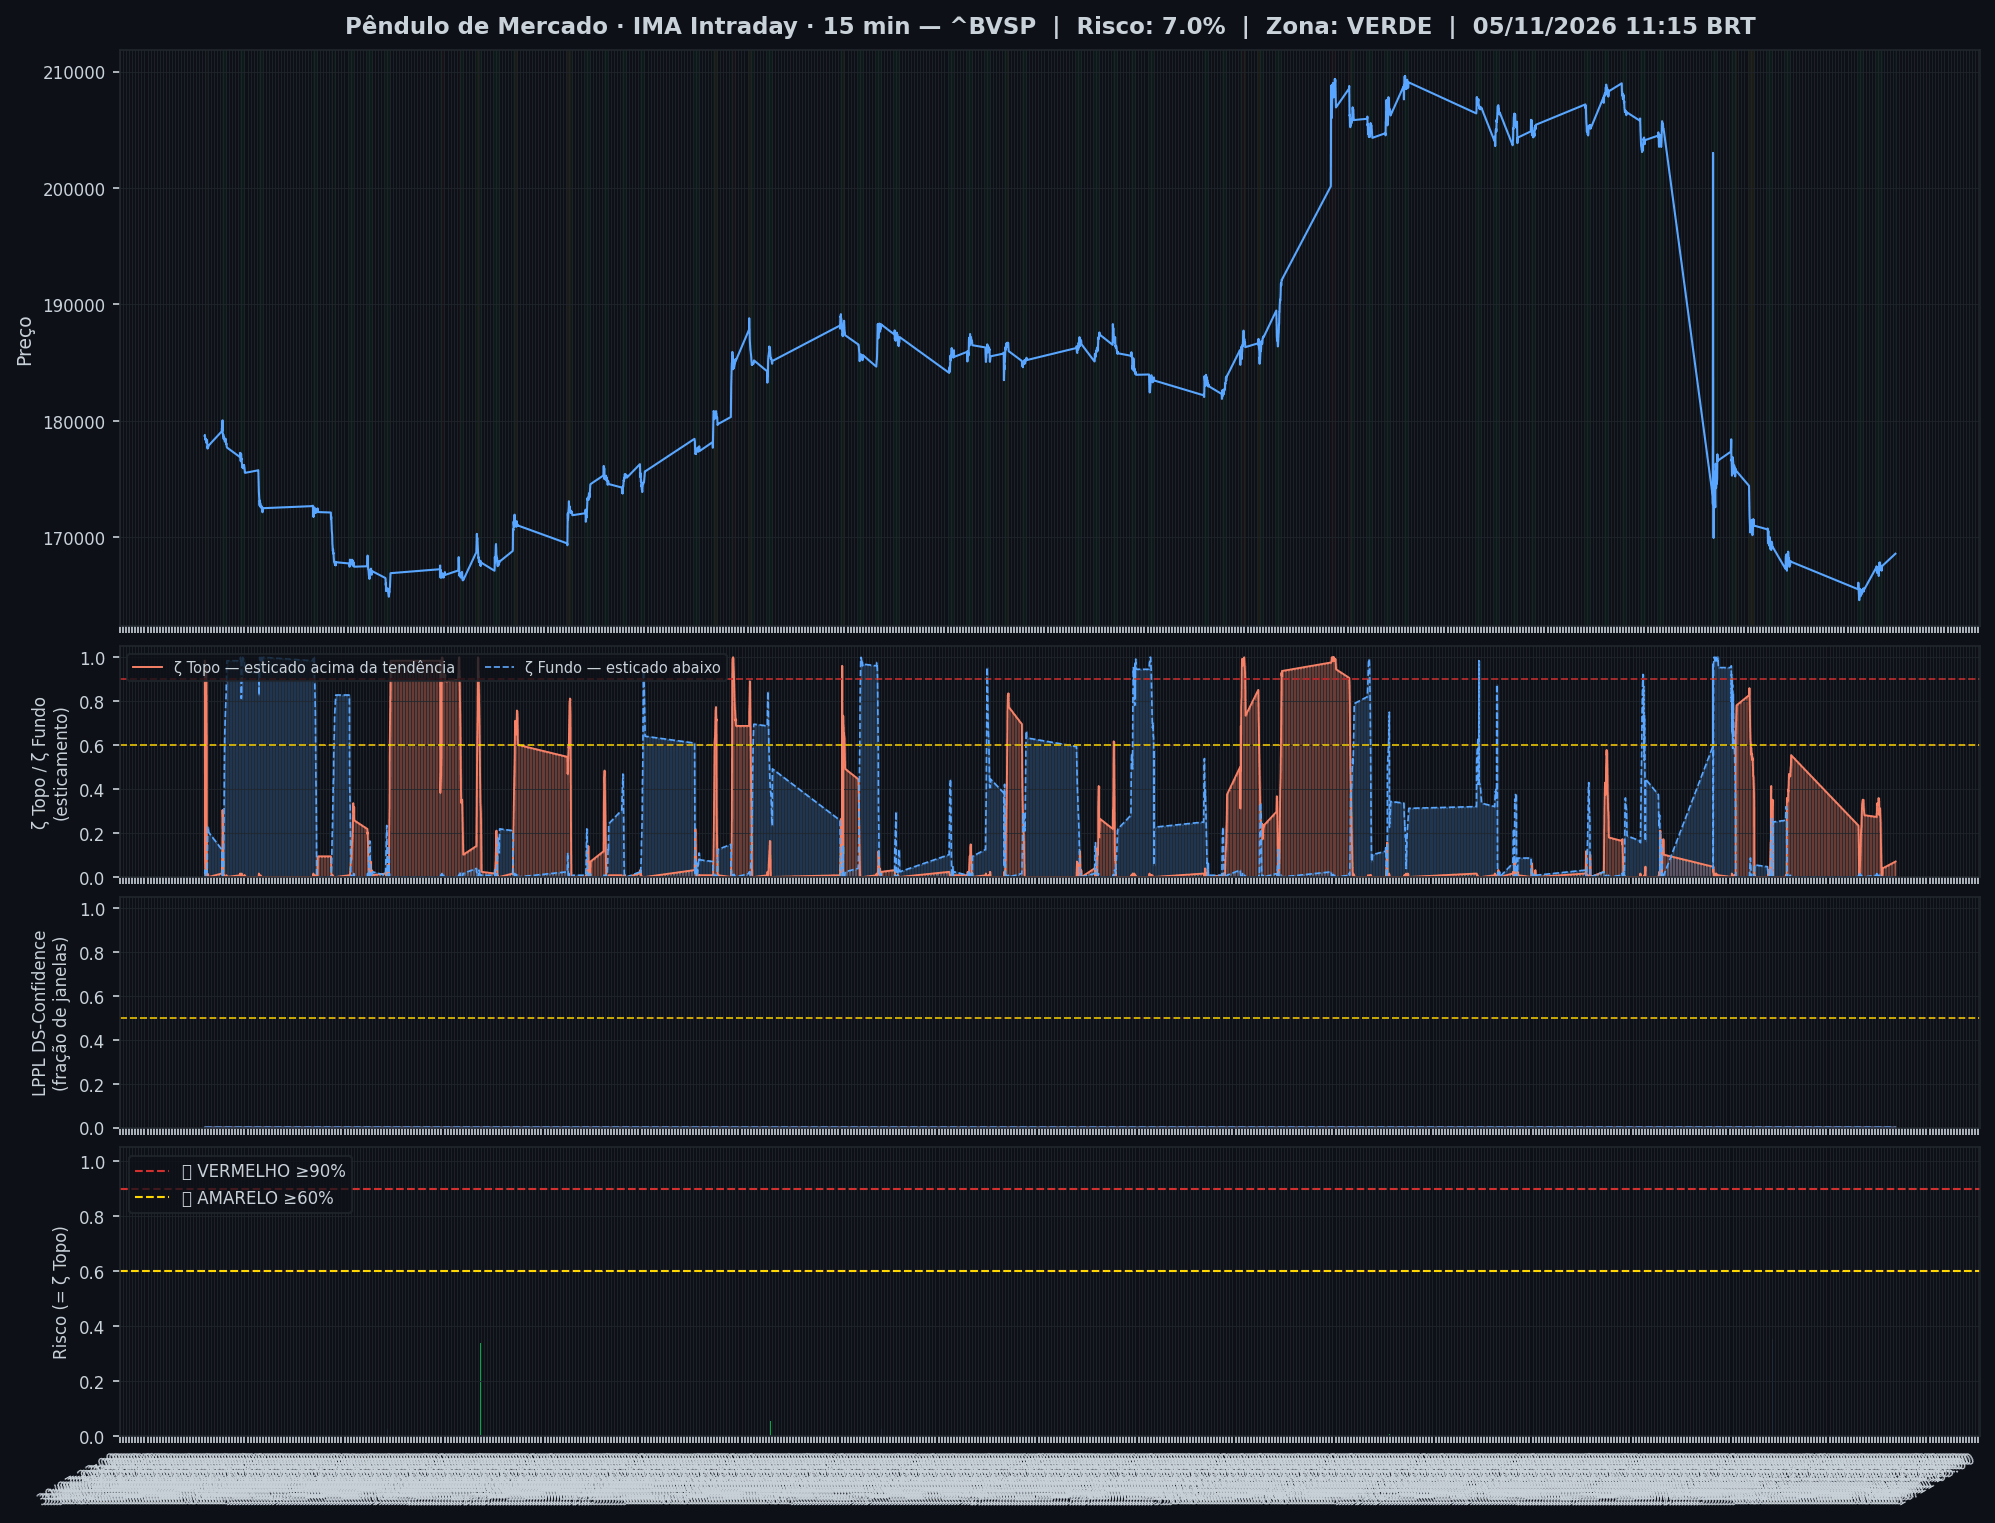
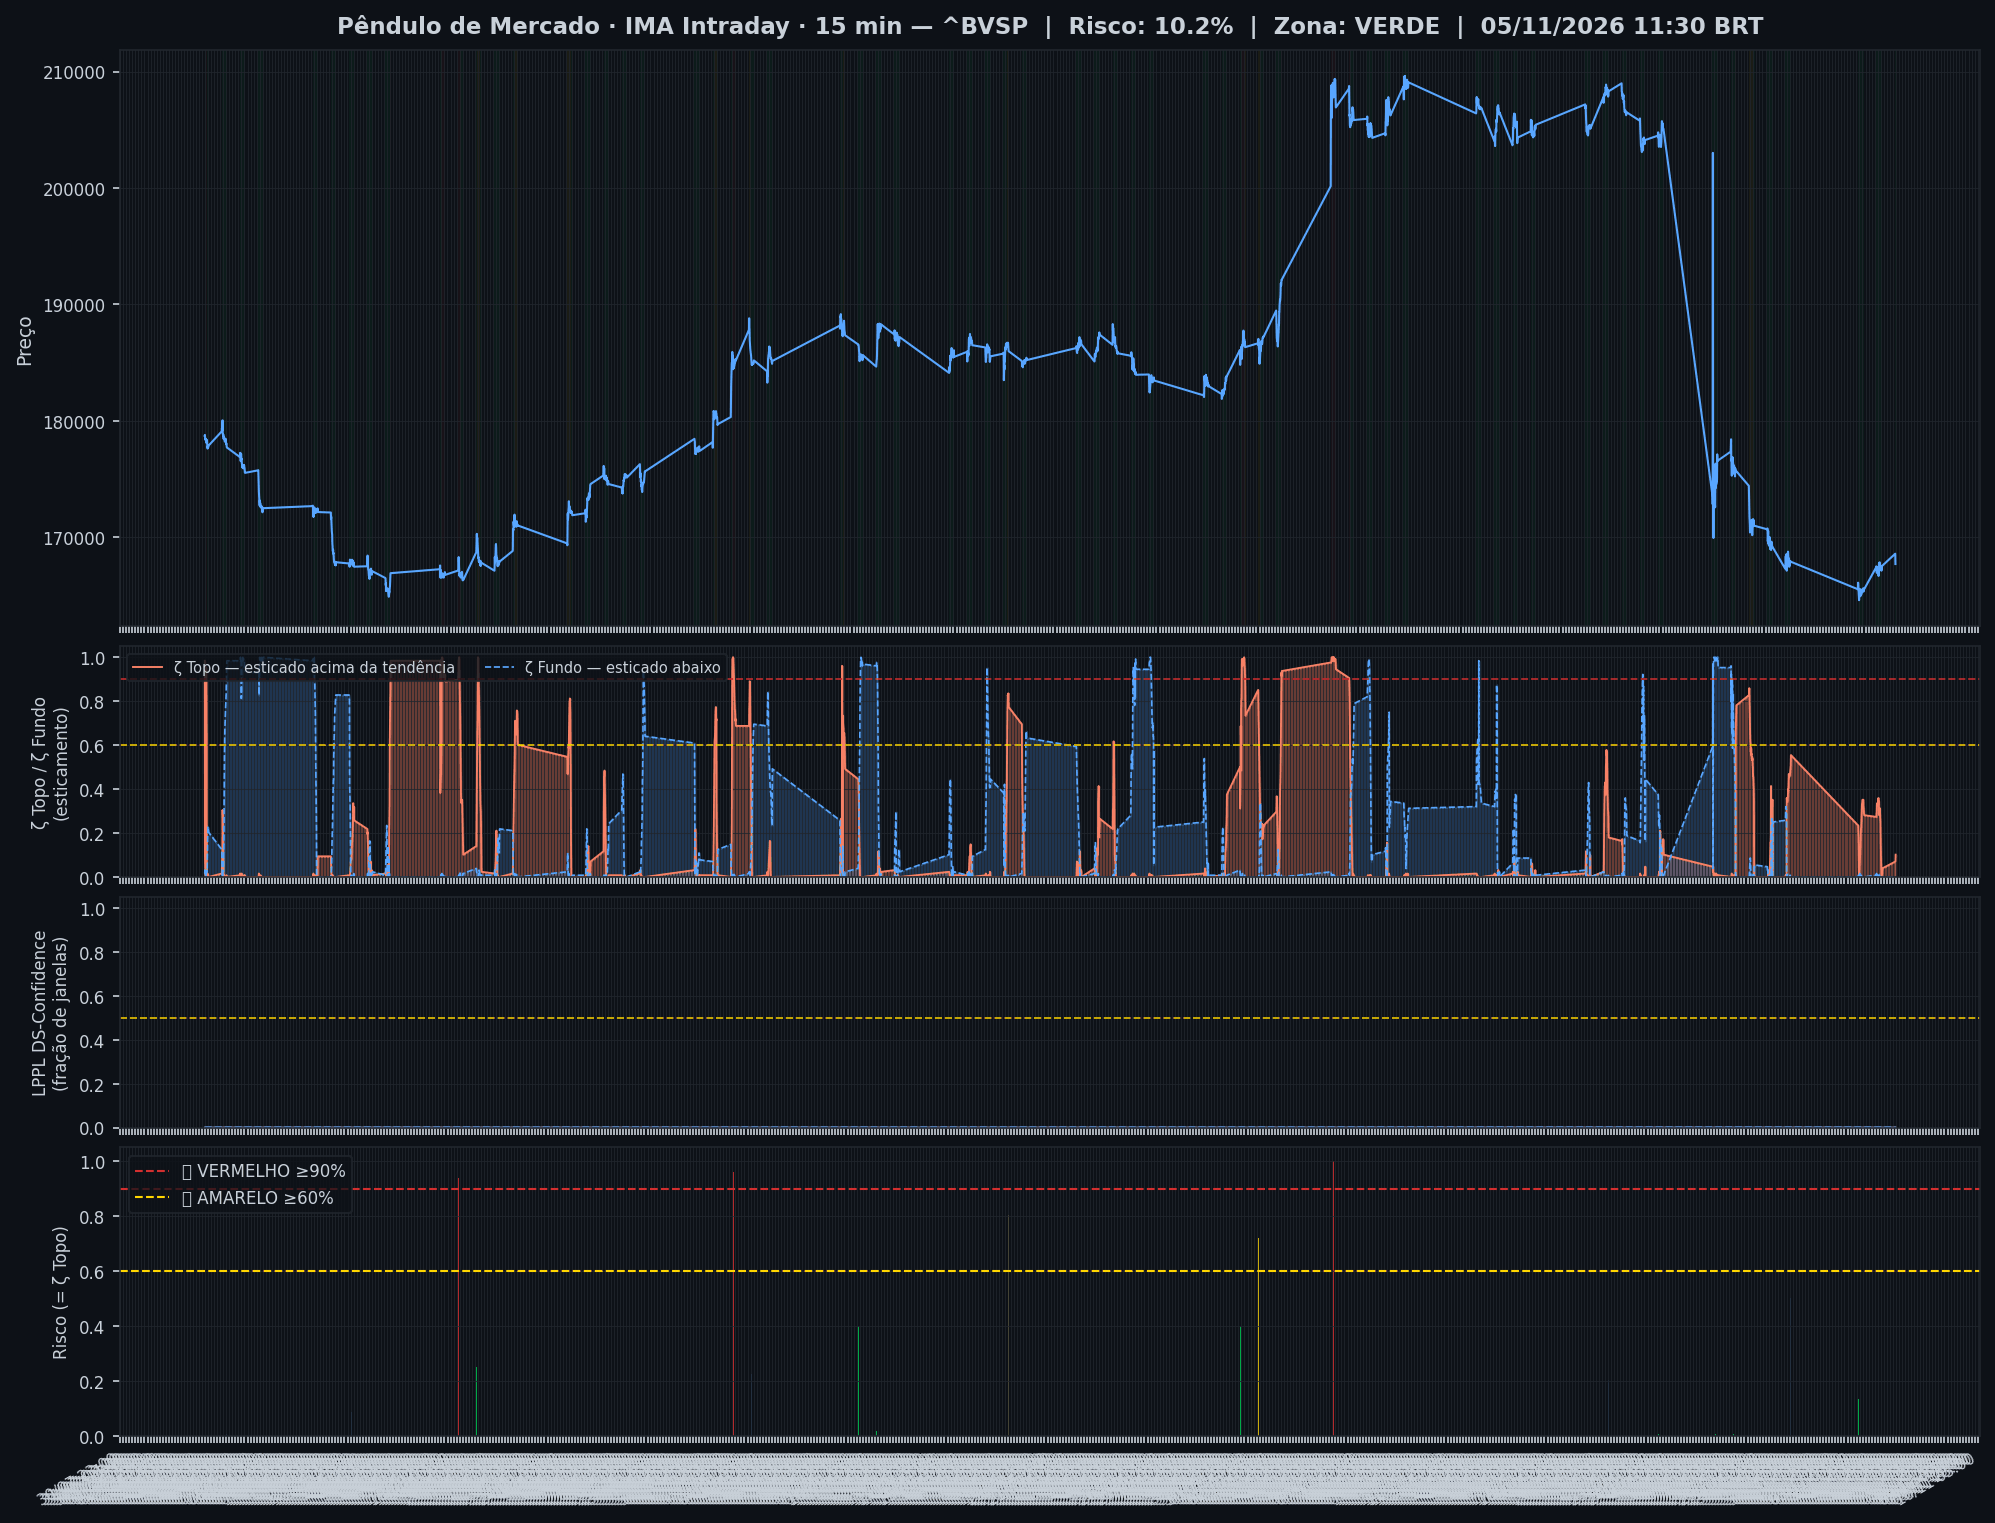
🤖 Auto: Sinal 05/11/2026 11:45

diff --git a/content/intraday/2026-11-05.md b/content/intraday/2026-11-05.md
@@ -1,10 +1,10 @@
 ---
-title: "🟢 Intraday 05/11/2026 11:15 BRT — VERDE"
+title: "🟢 Intraday 05/11/2026 11:30 BRT — VERDE"
 date: 2026-11-05
 tags: [intraday]
 ---
 
-> [!success] Onde o mercado está agora (05/11 11:15, candles de 15 min): **🟢 Calmo**
+> [!success] Onde o mercado está agora (05/11 11:30, candles de 15 min): **🟢 Calmo**
 > `Pânico ◀───────────●─────────▶ Euforia`
 >
 > O Ibovespa está dentro da sua faixa normal, sem excesso para cima nem para baixo.
@@ -20,8 +20,8 @@ tags: [intraday]
 > | 📍 **Sinais** | hoje: nenhum sinal | [abrir](sinais-topo-fundo/) |
 > | 🧪 **Placar ao vivo** | 1 operação(ões), 0 com lucro, soma -0,8% | [abrir](operacoes/) |
 
-> [!success] IMA Intraday · 15 min (05/11 11:15): 🟢 **VERDE** — Risco 7% · ▲ +3 p.p. vs leitura anterior
-> `█░░░░░░░░░░░░░░░░░░░`
+> [!success] IMA Intraday · 15 min (05/11 11:30): 🟢 **VERDE** — Risco 10% · ▲ +3 p.p. vs leitura anterior
+> `██░░░░░░░░░░░░░░░░░░`
 > Preço na faixa normal em torno da tendência.
 
 
@@ -32,13 +32,13 @@ tags: [intraday]
 >
 > *Leitura educacional baseada em 26 anos de dados, não recomendação. [Como usar](../metodologia/crise#3-como-usar-na-prática).*
 
-| Indicador — IMA Intraday · 15 min (05/11 11:15) | Valor |
+| Indicador — IMA Intraday · 15 min (05/11 11:30) | Valor |
 |---|---|
-| 🔴 ζ Topo — preço esticado acima da tendência | **7%** |
+| 🔴 ζ Topo — preço esticado acima da tendência | **10%** |
 | 🔵 ζ Fundo — preço esticado abaixo da tendência | 0% |
 | 🫧 LPPL bolha — alta super-exponencial (risco de crash) | 0% |
 | 🫧 LPPL antibolha — queda super-exponencial (risco de repique) | 0% |
-| 📊 Ibovespa | 168.606 pts |
+| 📊 Ibovespa | 167.720 pts |
 
 ![Gráfico do sinal](../graficos/sinal_intraday.png)
 
@@ -46,6 +46,7 @@ tags: [intraday]
 
 | Data | Zona | Evento | Risco | ζ Topo | ζ Fundo | LPPL |
 |---|---|---|---|---|---|---|
+| 2026-11-05 11:30 | 🟢 VERDE |  | **10%** | 10% | 0% | 0% |
 | 2026-11-05 11:15 | 🟢 VERDE |  | **7%** | 7% | 0% | 0% |
 | 2026-11-04 18:00 | 🟢 VERDE |  | **4%** | 4% | 0% | 0% |
 | 2026-11-04 17:45 | 🟢 VERDE |  | **2%** | 2% | 0% | 0% |
@@ -75,7 +76,6 @@ tags: [intraday]
 | 2026-11-04 11:45 | 🟢 VERDE |  | **33%** | 33% | 1% | 0% |
 | 2026-11-04 11:30 | 🟢 VERDE |  | **33%** | 33% | 1% | 0% |
 | 2026-11-04 11:15 | 🟢 VERDE |  | **33%** | 33% | 0% | 0% |
-| 2026-11-04 11:00 | 🟢 VERDE |  | **34%** | 34% | 0% | 0% |
 
 <small>Destaques: 🟡 ≥ 60% · 🔴 ≥ 90% (Risco e ζ Topo) · 🔵 ≥ 60% · 🔪 ≥ 90% (ζ Fundo) · 🫧 ≥ 30% · 🫧🔴 ≥ 50% (LPPL)</small>
 
@@ -84,33 +84,33 @@ tags: [intraday]
 **0% dos ativos em tensão** (0🔴 0🟡) · **1 com ζ Fundo alto** — quanto mais ativos disparam juntos, mais confiável o sinal.
 
 > [!warning] Em destaque no multi-ativo
-> 🔵 **PRIO** ζ Fundo 88%
+> 🔵 **PRIO** ζ Fundo 80%
 
 | Zona | Ativo | Setor | ζ Topo | ζ Fundo |
 |---|---|---|---|---|
-| 🟢 | **PRIO** | Petróleo | 0.0% | 🔵 **87.5%** |
-| 🟢 | **COPEL** | Energia | 43.8% | 0.8% |
-| 🟢 | **AMBEV S/A** | Consumo | 32.8% | 0.0% |
-| 🟢 | **VIBRA** | Energia | 32.0% | 0.0% |
-| 🟢 | **ITAUSA** | Financeiro | 28.9% | 0.0% |
-| 🟢 | **USD/BRL** | Câmbio | 0.0% | 23.4% |
-| 🟢 | **REDE D OR** | Saúde | 21.9% | 0.0% |
-| 🟢 | **ITAUUNIBANCO** | Financeiro | 18.8% | 0.0% |
-| 🟢 | **BRADESCO** | Financeiro | 16.4% | 0.0% |
-| 🟢 | **AXIA ENERGIA** | Energia | 15.6% | 0.8% |
-| 🟢 | **WEG** | Industrial | 0.8% | 15.6% |
-| 🟢 | **SUZANO S.A.** | Papel/Celulose | 0.0% | 15.6% |
-| 🟢 | **BTGP BANCO** | Financeiro | 10.9% | 0.0% |
-| 🟢 | **ENEVA** | Energia | 10.2% | 0.8% |
-| 🟢 | **ULTRAPAR** | Outros | 10.2% | 0.0% |
-| 🟢 | **GERDAU** | Siderurgia | 0.0% | 10.2% |
-| 🟢 | **PETROBRAS** | Petróleo | 1.6% | 7.8% |
-| 🟢 | **PETROBRAS** | Petróleo | 6.2% | 0.0% |
-| 🟢 | **EMBRAER** | Outros | 2.3% | 3.9% |
-| 🟢 | **BRASIL** | Financeiro | 0.0% | 3.9% |
-| 🟢 | **EQUATORIAL** | Energia | 3.9% | 0.0% |
-| 🟢 | **SABESP** | Saneamento | 2.3% | 0.0% |
-| 🟢 | **VALE** | Mineração | 0.8% | 0.8% |
+| 🟢 | **PRIO** | Petróleo | 0.8% | 🔵 **79.7%** |
+| 🟢 | **COPEL** | Energia | 48.4% | 1.6% |
+| 🟢 | **VIBRA** | Energia | 35.9% | 0.8% |
+| 🟢 | **AMBEV S/A** | Consumo | 26.6% | 0.0% |
+| 🟢 | **AXIA ENERGIA** | Energia | 22.7% | 1.6% |
+| 🟢 | **ITAUSA** | Financeiro | 22.7% | 0.0% |
+| 🟢 | **WEG** | Industrial | 2.3% | 21.1% |
+| 🟢 | **REDE D OR** | Saúde | 19.5% | 1.6% |
+| 🟢 | **ENEVA** | Energia | 18.0% | 0.0% |
+| 🟢 | **SUZANO S.A.** | Papel/Celulose | 0.8% | 16.4% |
+| 🟢 | **USD/BRL** | Câmbio | 0.0% | 16.4% |
+| 🟢 | **ITAUUNIBANCO** | Financeiro | 15.6% | 0.0% |
+| 🟢 | **ULTRAPAR** | Outros | 14.8% | 0.8% |
+| 🟢 | **BTGP BANCO** | Financeiro | 13.3% | 0.8% |
+| 🟢 | **BRADESCO** | Financeiro | 10.9% | 0.0% |
+| 🟢 | **PETROBRAS** | Petróleo | 10.2% | 0.0% |
+| 🟢 | **GERDAU** | Siderurgia | 0.0% | 7.8% |
+| 🟢 | **EQUATORIAL** | Energia | 6.2% | 0.0% |
+| 🟢 | **EMBRAER** | Outros | 2.3% | 5.5% |
+| 🟢 | **PETROBRAS** | Petróleo | 3.9% | 0.8% |
+| 🟢 | **SABESP** | Saneamento | 3.9% | 0.0% |
+| 🟢 | **VALE** | Mineração | 1.6% | 0.8% |
+| 🟢 | **BRASIL** | Financeiro | 1.6% | 0.8% |
 | 🟢 | **LOCALIZA** | Aluguel | 0.0% | 0.8% |
 | 🟢 | **B3** | Financeiro | 0.0% | 0.0% |
 
@@ -118,7 +118,7 @@ tags: [intraday]
 
 ![Monitor multi-ativo](../graficos/multi_intraday.png)
 
-*Página atualizada em 05/11/2026 11:31 BRT (leitura da barra de 2026-11-05 11:15 BRT).*
+*Página atualizada em 05/11/2026 11:45 BRT (leitura da barra de 2026-11-05 11:30 BRT).*
 
 > [!warning] O que este indicador não faz
 > Medido em 5 anos de Ibovespa, o ζ **não antecipa** topos nem fundos: a capacidade de separar o que sobe do que cai ficou em 0,49–0,52, e 0,50 é moeda jogada ao ar. Ele descreve o estado de agora; não é aviso do que vem. As zonas verde/amarelo/vermelho continuam na página como descrição desse estado — **não as use como sinal de entrada ou saída**.

diff --git a/content/index.md b/content/index.md
@@ -6,9 +6,9 @@ tags: [home]
 
 **As ondas do mercado, explicadas.** Leitura do Ibovespa com estatística de 26 anos, baseada no trabalho de pesquisadores e traders reconhecidos e adaptada por Jarbas Daniel da Costa.
 
-*Última atualização: 05/11/2026 11:31 BRT · Intraday 15min*
+*Última atualização: 05/11/2026 11:45 BRT · Intraday 15min*
 
-> [!success] Onde o mercado está agora (05/11 11:15, candles de 15 min): **🟢 Calmo**
+> [!success] Onde o mercado está agora (05/11 11:30, candles de 15 min): **🟢 Calmo**
 > `Pânico ◀───────────●─────────▶ Euforia`
 >
 > O Ibovespa está dentro da sua faixa normal, sem excesso para cima nem para baixo.
@@ -20,7 +20,7 @@ tags: [home]
 
 | Módulo | Agora | |
 |---|---|---|
-| 🌊 **Sinal de Crise** | 🟢 VERDE · 🟢 calmo · ζ Topo 7% | [relatório](intraday/2026-11-05) |
+| 🌊 **Sinal de Crise** | 🟢 VERDE · 🟢 calmo · ζ Topo 10% | [relatório](intraday/2026-11-05) |
 | 📈 **Tendência MME9** | Diário — fora<br>Semanal — fora | [abrir](operacoes/tendencia) |
 | 🎯 **Entradas do método** | ⏳ aguardando: Diário · Nadaraya, H4 · Semáforo N2, Diário · Semáforo N3 após ζ Fundo | [abrir](operacoes/entradas) |
 | 📍 **Sinais** | hoje: nenhum sinal | [abrir](sinais-topo-fundo/) |
@@ -54,18 +54,18 @@ tags: [home]
 > *Leitura educacional baseada em 26 anos de dados, não recomendação. [Como usar](metodologia/crise#3-como-usar-na-prática).*
 
 > [!info]- 🌊 Detalhes do Sinal de Crise (indicadores e últimos 7 pregões)
-> > [!success] IMA Intraday · 15 min (05/11 11:15): 🟢 **VERDE** — Risco 7% · ▲ +3 p.p. vs leitura anterior
-> > `█░░░░░░░░░░░░░░░░░░░`
+> > [!success] IMA Intraday · 15 min (05/11 11:30): 🟢 **VERDE** — Risco 10% · ▲ +3 p.p. vs leitura anterior
+> > `██░░░░░░░░░░░░░░░░░░`
 > > Preço na faixa normal em torno da tendência.
 >
 >
-> | Indicador — IMA Intraday · 15 min (05/11 11:15) | Valor |
+> | Indicador — IMA Intraday · 15 min (05/11 11:30) | Valor |
 > |---|---|
-> | 🔴 ζ Topo — preço esticado acima da tendência | **7%** |
+> | 🔴 ζ Topo — preço esticado acima da tendência | **10%** |
 > | 🔵 ζ Fundo — preço esticado abaixo da tendência | 0% |
 > | 🫧 LPPL bolha — alta super-exponencial (risco de crash) | 0% |
 > | 🫧 LPPL antibolha — queda super-exponencial (risco de repique) | 0% |
-> | 📊 Ibovespa | 168.606 pts |
+> | 📊 Ibovespa | 167.720 pts |
 >
 > **Multi-ativo:** 0% em tensão (0🔴 0🟡 de 25 ativos)
 >
@@ -73,7 +73,7 @@ tags: [home]
 >
 > | Data | Zona | Risco | ζ Topo | ζ Fundo | LPPL |
 > |---|---|---|---|---|---|
-> | [05/11/2026](intraday/2026-11-05) | 🟢 VERDE | **7%** | 7% | 0% | 0% |
+> | [05/11/2026](intraday/2026-11-05) | 🟢 VERDE | **10%** | 10% | 0% | 0% |
 > | [04/11/2026](intraday/2026-11-04) | 🟢 VERDE | **4%** | 4% | 0% | 0% |
 >
 > <small>Destaques: 🟡 ≥ 60% · 🔴 ≥ 90% (Risco e ζ Topo) · 🔵 ≥ 60% · 🔪 ≥ 90% (ζ Fundo) · 🫧 ≥ 30% · 🫧🔴 ≥ 50% (LPPL)</small>

diff --git a/content/historico.md b/content/historico.md
@@ -5,7 +5,7 @@ tags: [historico]
 
 # 📜 Histórico de leituras (v5)
 
-**2.148 leituras** desde 2026-07-03. Na página ficam os últimos 3 dias leitura por leitura e o resumo de cada dia anterior; o registro inteiro está no arquivo para baixar.
+**2.149 leituras** desde 2026-07-03. Na página ficam os últimos 3 dias leitura por leitura e o resumo de cada dia anterior; o registro inteiro está no arquivo para baixar.
 
 [**Baixar o histórico completo**](historico-completo.csv) (94 KB · abre no Excel e no LibreOffice)
 
@@ -16,6 +16,7 @@ tags: [historico]
 
 | Data | Modo | Zona | Risco | IMA | LPPL |
 |---|---|---|---|---|---|
+| 2026-11-05 11:30 | intraday | 🟢 VERDE | 10% | 10% | 0% |
 | 2026-11-05 11:15 | intraday | 🟢 VERDE | 7% | 7% | 0% |
 | 2026-11-05 10:45 | intraday | 🟢 VERDE | 16% | 16% | 0% |
 | 2026-11-05 10:30 | intraday | 🟢 VERDE | 15% | 15% | 0% |

diff --git a/content/operacoes/ranking.md b/content/operacoes/ranking.md
@@ -5,7 +5,7 @@ tags: [operacoes]
 description: "As regras de compra do site ordenadas pelo resultado, com treino, teste e placar ao vivo"
 ---
 
-*Atualizado 05/11/2026 11:31 · histórico simulado com as regras congeladas em 23/10/2026 + placar ao vivo.*
+*Atualizado 05/11/2026 11:45 · histórico simulado com as regras congeladas em 23/10/2026 + placar ao vivo.*
 
 As regras de compra do site, **da que mais rendeu para a que menos rendeu**. O resultado é por operação, no índice à vista, sem custos e sem juros compostos (a soma é só a soma das operações). **Treino** = entradas de 2001 a 2013 e **teste** = 2014 em diante: uma regra só é confiável se ganhou nos dois. O único resultado sem nenhum ajuste ao histórico é o **placar ao vivo**.
 

diff --git a/content/linha-do-tempo/index.md b/content/linha-do-tempo/index.md
@@ -5,7 +5,7 @@ description: "Todo sinal, ordem, stop e aviso do Pêndulo de Mercado, do mais re
 tags: [eventos]
 ---
 
-*Atualizada 05/11/2026 11:31 BRT · a cada 15 min no pregão e às 19h.*
+*Atualizada 05/11/2026 11:45 BRT · a cada 15 min no pregão e às 19h.*
 
 Tudo o que o sistema fez ou detectou, **do mais recente para o mais antigo**: sinais de topo e fundo, ordens de compra e de venda armadas, compras, vendas, stops, avisos de 🚨 preço perto do nível e mudanças da Crise. Os **últimos 7 dias** ficam abertos; o resto, por **ano → mês → dia**.
 
